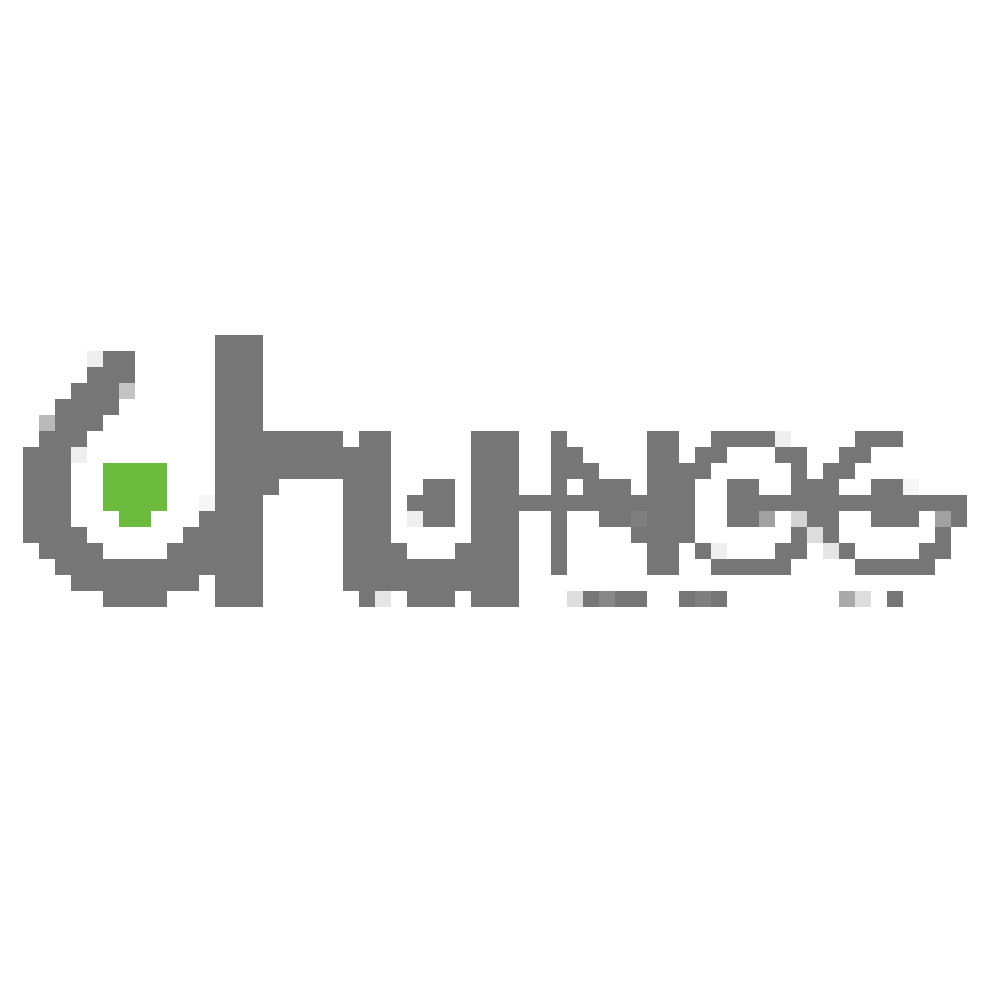
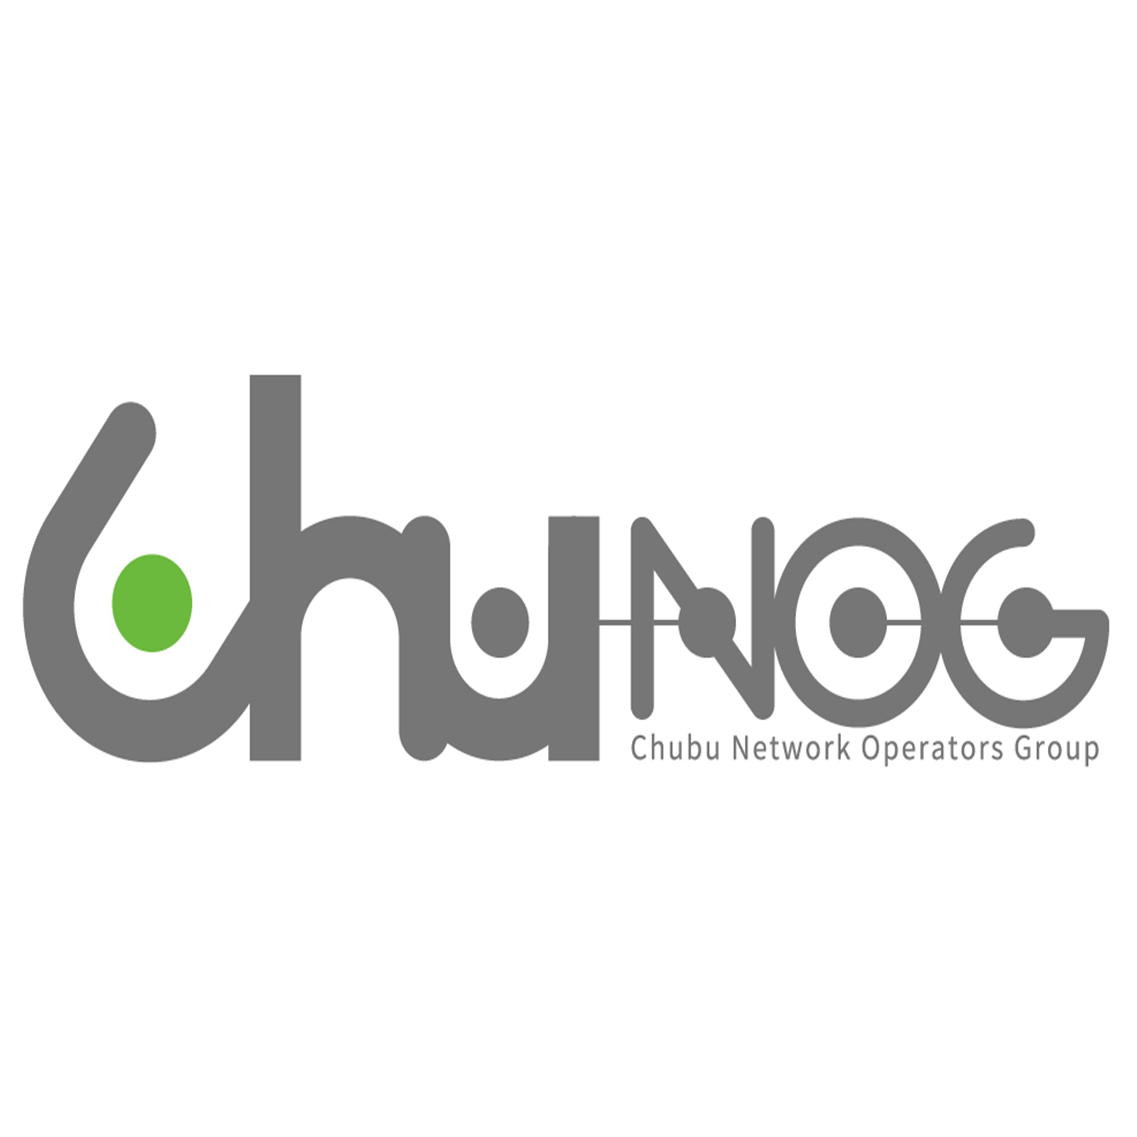
chunogロゴ差し替え、東海道らぐロゴ追加

diff --git a/connpass_content.md b/connpass_content.md
@@ -87,7 +87,7 @@ https://nagoya-godo-konshinkai.github.io/ngk2023s/anti-harassment-policy.html
 <tr>
 <td align="center" style="padding: 9px;"><img width="150px" src="https://nagoya-godo-konshinkai.github.io/ngk2023s/img/community/julia-tokai.jpg"/><br/><a href="https://juliatokai.connpass.com/">JuliaTokai</a></td>
 <td align="center" style="padding: 9px;"><img width="150px" src="https://nagoya-godo-konshinkai.github.io/ngk2023s/img/community/ml-nagoya.png"/><br/><a href="https://machine-learning.connpass.com/">機械学習名古屋研究会</a></td>
-<td align="center" style="padding: 9px;"><img width="150px" src="https://nagoya-godo-konshinkai.github.io/ngk2023s/img/community/empty.png"/><br/><a href="https://tokaidolug.colorfultime.net">東海道らぐ</a></td>
+<td align="center" style="padding: 9px;"><img width="150px" src="https://nagoya-godo-konshinkai.github.io/ngk2023s/img/community/tokaido-lug-300w.png"/><br/><a href="https://tokaidolug.colorfultime.net">東海道らぐ</a></td>
 <td align="center" style="padding: 9px;"><img width="150px" src="https://nagoya-godo-konshinkai.github.io/ngk2023s/img/community/othlotech.png"/><br/><a href="https://www.othlo.tech/">OthloTech</a></td>
 </tr>
 
